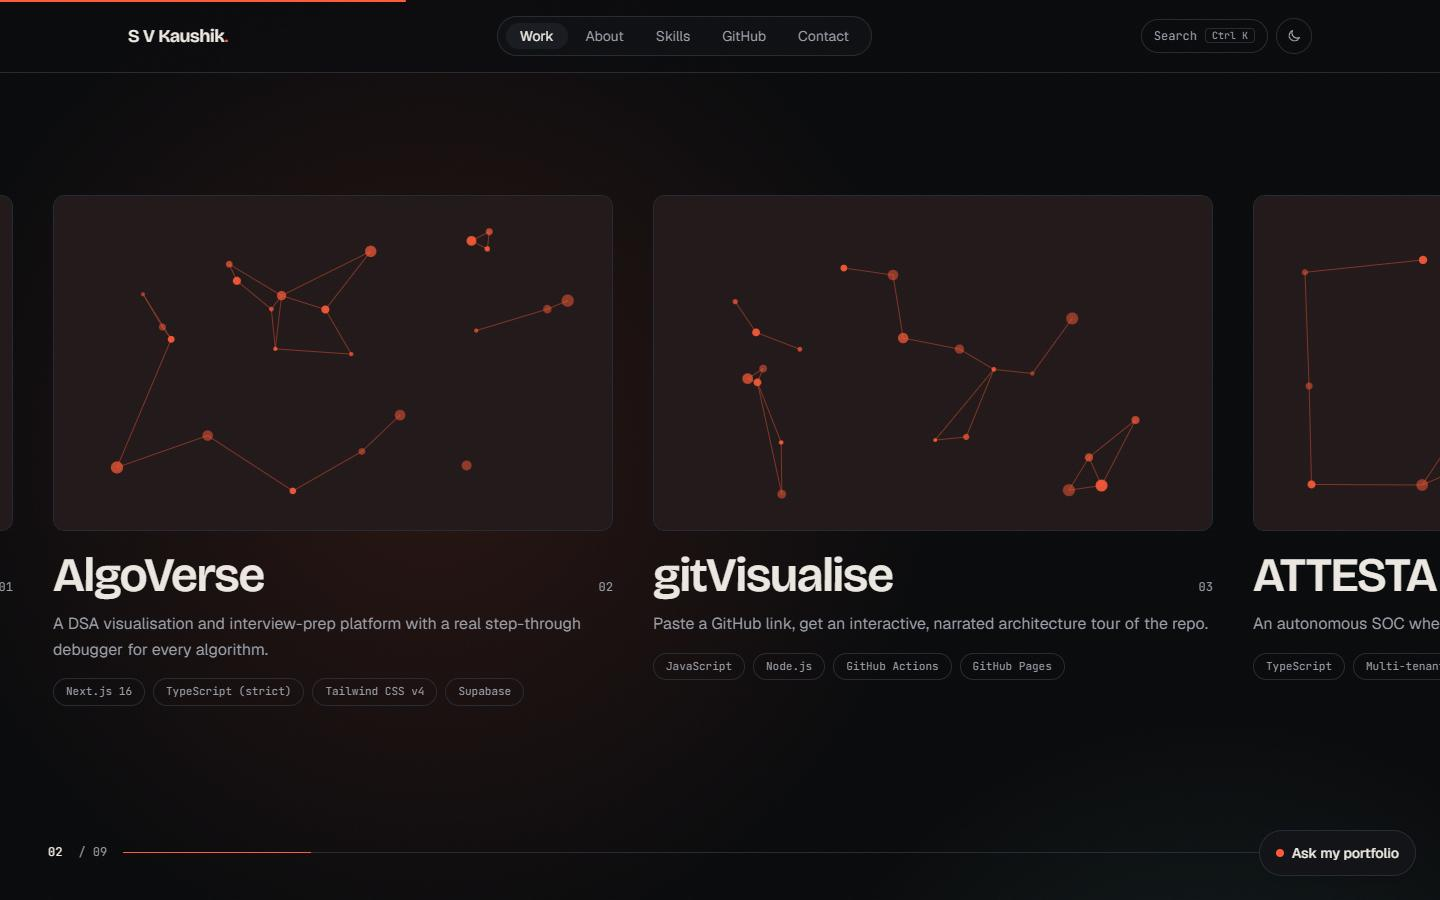
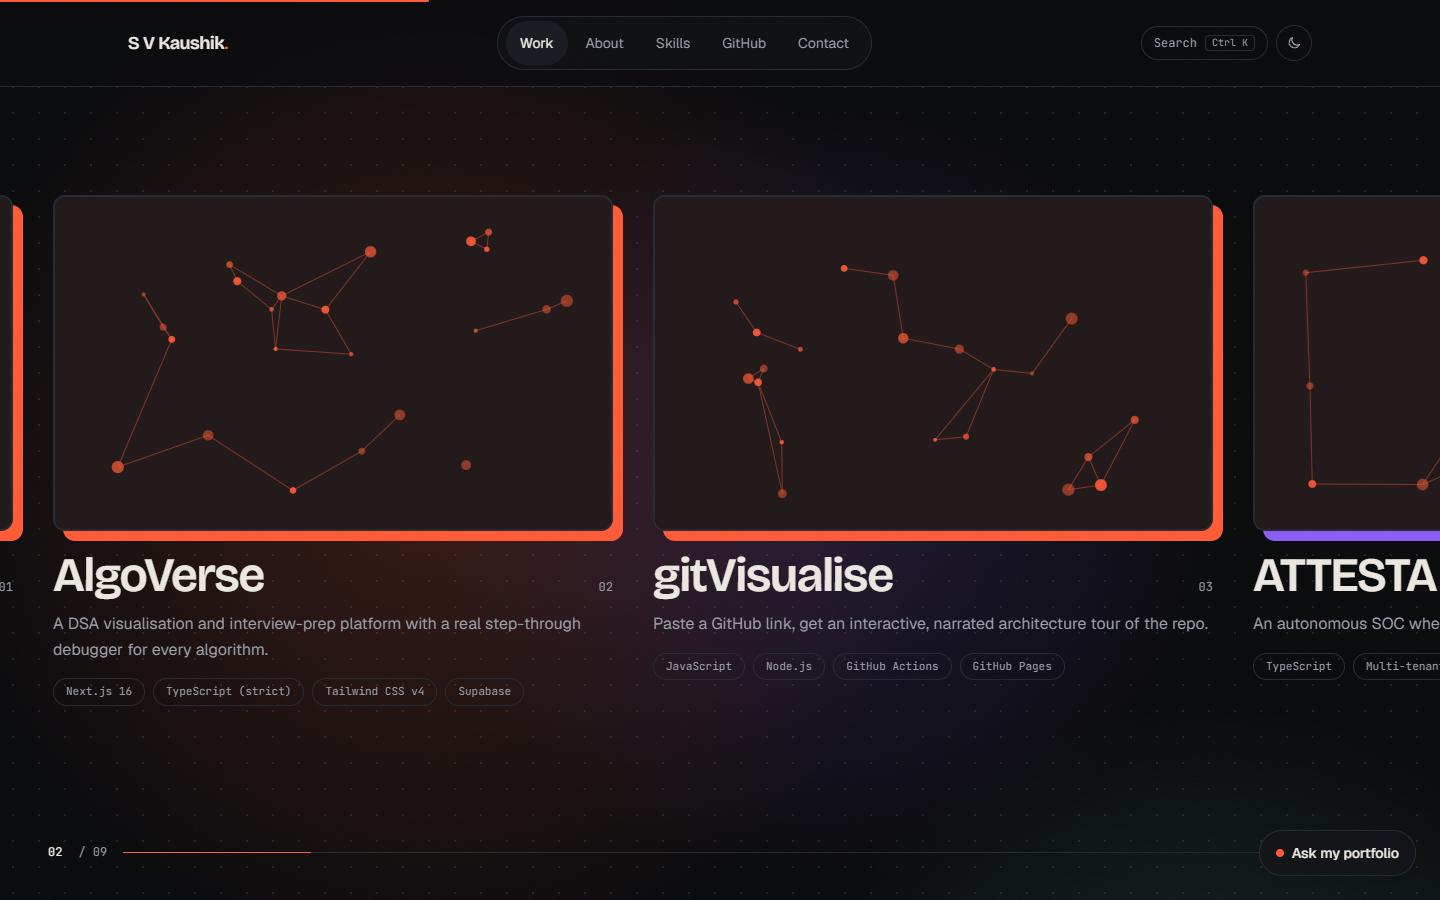
docs: describe the 3d layer and responsive checks

diff --git a/README.md b/README.md
@@ -21,6 +21,7 @@ work.
 - **GitHub**: contribution heatmap, language share and recent activity from `data/github.json`, refreshed by `npm run sync`.
 - **Ask my portfolio**: streaming chat grounded in the data files, with a fit-check mode for pasting a job description. Falls back to data-derived answers when no API key is set.
 - **Maximalist styling**: saturated colour blocks (ember, teal, violet, lime, pink), two tilted tape-style marquee bands crossing the page, a rotating sticker badge, HUD coordinates and ghost outlined type in the hero, giant section numerals, a dot-grid texture, hard offset-shadow cards with numbered stickers, and colour-block stat tiles. The paint-heavy pieces (ghost type, numerals, dot grid, second band, tile tilts, endless marquee tweens) switch off on phones.
+- **3D effects**: the hero particle field now has a spinning wireframe icosahedron core and a click shockwave that ripples outward through the lattice (a GLSL ring expanding from where you clicked); a draggable CSS-3D skill carousel you can fling with momentum (tablet and up); cards and stat tiles tilt in 3D with a following glare; section headings tip up out of a perspective mask; the footer wordmark tips up from the floor as you scroll; the role title scrambles into place when you switch role.
 - **Motion layer**: a scroll-velocity marquee that speeds up, reverses and skews with your scroll; kinetic split-text headings; scramble-in section labels; 3D card tilt with a following glare; a gallery progress counter; hero depth parallax against the pointer; an ambient colour field that travels with scroll; contextual cursor labels. GSAP (ScrollTrigger, SplitText, ScrambleText, Flip) drives these, and anime.js drives the nav indicator that slides to the hovered or active section, click ripples, skill-chip waves on role change, and the drawn architecture connectors. Every one is skipped for reduced-motion, and pointer-driven ones for touch.
 - **Command palette** (`Ctrl/Cmd+K`), **terminal mode** (`~`), contact form (server action, Resend), dark/light theme, custom cursor, scroll progress, 404 page.
 
@@ -116,11 +117,11 @@ Measured with Lighthouse 12.6.1 against the production deployment, default simul
 
 | Page       | Preset  | Performance    | Accessibility | Best practices | SEO |
 | ---------- | ------- | -------------- | ------------- | -------------- | --- |
-| Home       | Mobile  | 96, 86, 88, 89 | 100           | 100            | 100 |
+| Home       | Mobile  | 73, 85, 87, 87 | 100           | 100            | 100 |
 | Home       | Desktop | 96             | 100           | 100            | 100 |
 | Case study | Mobile  | 91             | 100           | 100            | 100 |
 
-Measured again after the motion layer and the maximalist styling were added. Accessibility, best practices and SEO are 100 everywhere and desktop clears 90, but **mobile home now sits just under the performance target (86 to 96, median about 88)**; the maximalist layer costs roughly 3 to 5 mobile points, which is the trade for the look. Cutting more of it on phones would close the gap; desktop and case studies have headroom, the home page on mobile is the tightest at 91 to 92. Getting the home page there took several rounds, and what the investigation found is worth keeping:
+Measured again after the motion layer and the maximalist styling were added. Accessibility, best practices and SEO are 100 everywhere and desktop clears 90, but **mobile home sits under the performance target (typically 85 to 87, with occasional outliers either side)**; the maximalist and 3D layers cost roughly 5 mobile points, which is the trade for the look. Cutting more of it on phones would close the gap; desktop and case studies have headroom, the home page on mobile is the tightest at 91 to 92. Getting the home page there took several rounds, and what the investigation found is worth keeping:
 
 - Under real CPU throttling, the dominant cost was one synchronous React hydration task. About 55% of the first-load DOM was decorative SVG (heatmap cells, tooltips, cover art), so those now mount only as they near the viewport. First-load DOM went from 2,065 to 838 nodes and mobile TBT in my 4x-CPU harness from about 2.0s to 0.4s. Lazily mounting the skills graph (never mounted on phones, where it is hidden) took the home page from 62-76 to 91-92.
 - Splitting sections into `<Suspense>` slices made production worse (TBT up to 1.7s), so it was reverted.
@@ -143,3 +144,7 @@ GitHub auto-deploy needs a Login Connection for GitHub on the Vercel account, wh
 - Every case study uses generated cover art because screenshots are still `TODO_SCREENSHOT`.
 - No `public/resume.pdf` yet.
 - Experience, education, certifications and achievements are empty until `data/linkedin.json` is filled, so the timeline and some About counters are hidden.
+
+## Responsive behaviour
+
+Checked at 360, 390, 768, 1024 and 1440 px: no horizontal overflow and no tap targets under 32 px at any size. Decoration is tiered: phones get the content and a static hero; tablets add the sticker, skill carousel and tilt-free layout; desktops with a mouse add tilt, parallax, the cursor ring, the pinned gallery and the WebGL scene. Pointer-driven effects set themselves up on first hover, so touch devices pay nothing for them.
